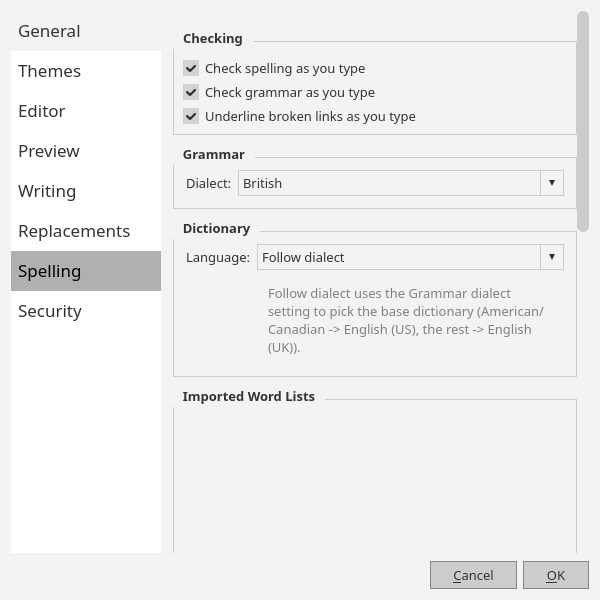
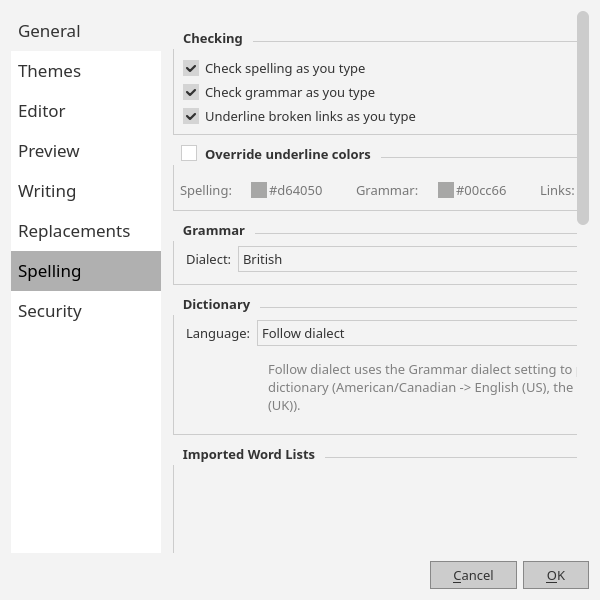
feat: colour swatches for spell check/grammar check/broken link check underlines

Changed region(s): [[0.3, 0.3, 0.99, 0.69], [0.3, 0.24, 0.63, 0.27], [0.3, 0.75, 0.54, 0.78]]

diff --git a/src/PreferencesDialog.cpp b/src/PreferencesDialog.cpp
@@ -889,6 +889,71 @@ void PreferencesDialog::setupUi(const QString &themeBgColor, const QString &them
 
         layout->addWidget(checkGroup);
 
+        QGroupBox *underlineGroup = new QGroupBox("Override underline colors");
+        underlineGroup->setCheckable(true);
+        underlineGroup->setChecked(settings.value(Preferences::UnderlineColorOverride, false).toBool());
+        auto *underlineLayout = new QHBoxLayout(underlineGroup);
+        underlineLayout->setContentsMargins(6, 18, 6, 6);
+
+        auto makeUnderlineSwatchBtn = [](const QString &hex) {
+            auto *btn = new QPushButton;
+            QPixmap px(16, 16);
+            px.fill(QColor(hex));
+            btn->setIcon(QIcon(px));
+            btn->setIconSize(QSize(16, 16));
+            btn->setText(hex);
+            btn->setCursor(Qt::PointingHandCursor);
+            return btn;
+        };
+
+        m_spellColorBtn = makeUnderlineSwatchBtn(
+            settings.value(Preferences::SpellUnderlineColor, "#d64050").toString());
+        m_grammarColorBtn = makeUnderlineSwatchBtn(
+            settings.value(Preferences::GrammarUnderlineColor, "#00cc66").toString());
+        m_linkColorBtn = makeUnderlineSwatchBtn(
+            settings.value(Preferences::LinkUnderlineColor, "#f09000").toString());
+
+        underlineLayout->addWidget(new QLabel("Spelling:"));
+        underlineLayout->addWidget(m_spellColorBtn);
+        underlineLayout->addSpacing(12);
+        underlineLayout->addWidget(new QLabel("Grammar:"));
+        underlineLayout->addWidget(m_grammarColorBtn);
+        underlineLayout->addSpacing(12);
+        underlineLayout->addWidget(new QLabel("Links:"));
+        underlineLayout->addWidget(m_linkColorBtn);
+        underlineLayout->addStretch();
+        layout->addWidget(underlineGroup);
+
+        auto emitUnderlineColorsChanged = [this]() { emit underlineColorsChanged(); };
+
+        auto connectUnderlineSwatch = [this, emitUnderlineColorsChanged](
+            QPushButton *btn, const char *key, const char *title) {
+            connect(btn, &QPushButton::clicked, this, [this, btn, key, title, emitUnderlineColorsChanged]() {
+                QColor current(btn->text());
+                QColor c = QColorDialog::getColor(current, this, QString::fromLatin1(title));
+                if (!c.isValid())
+                    return;
+                QSettings s;
+                s.setValue(QString::fromLatin1(key), c.name());
+                QPixmap px(16, 16);
+                px.fill(c);
+                btn->setIcon(QIcon(px));
+                btn->setText(c.name());
+                m_underlineColorGroup->setChecked(true);
+                emitUnderlineColorsChanged();
+            });
+        };
+        connectUnderlineSwatch(m_spellColorBtn, Preferences::SpellUnderlineColor, "Spelling Underline Color");
+        connectUnderlineSwatch(m_grammarColorBtn, Preferences::GrammarUnderlineColor, "Grammar Underline Color");
+        connectUnderlineSwatch(m_linkColorBtn, Preferences::LinkUnderlineColor, "Link Underline Color");
+
+        m_underlineColorGroup = underlineGroup;
+        connect(underlineGroup, &QGroupBox::toggled, this, [this, emitUnderlineColorsChanged]() {
+            QSettings s;
+            s.setValue(Preferences::UnderlineColorOverride, m_underlineColorGroup->isChecked());
+            emitUnderlineColorsChanged();
+        });
+
         QGroupBox *grammarGroup = new QGroupBox("Grammar");
         QFormLayout *grammarLayout = new QFormLayout(grammarGroup);
         grammarLayout->setContentsMargins(12, 12, 12, 12);
@@ -1277,6 +1342,10 @@ void PreferencesDialog::setupUi(const QString &themeBgColor, const QString &them
         settings.setValue(Preferences::SpellCheckEnabled, m_spellCheckCheck->isChecked());
         settings.setValue(Preferences::GrammarCheckEnabled, m_grammarCheckCheck->isChecked());
         settings.setValue(Preferences::LinkCheckEnabled, m_linkCheckCheck->isChecked());
+        settings.setValue(Preferences::UnderlineColorOverride, m_underlineColorGroup->isChecked());
+        settings.setValue(Preferences::SpellUnderlineColor, m_spellColorBtn->text());
+        settings.setValue(Preferences::GrammarUnderlineColor, m_grammarColorBtn->text());
+        settings.setValue(Preferences::LinkUnderlineColor, m_linkColorBtn->text());
         settings.setValue(Preferences::DictionaryLanguage, m_languageCombo->currentData().toString());
         settings.setValue(Preferences::GrammarDialect, m_grammarDialectCombo->currentText());
         QStringList customWords;

diff --git a/src/SpellHighlighter.cpp b/src/SpellHighlighter.cpp
@@ -14,6 +14,7 @@
 // along with this program.  If not, see <https://www.gnu.org/licenses/>.
 #include "SpellHighlighter.h"
 #include "LinkValidator.h"
+#include "Preferences.h"
 #include "SpellChecker.h"
 #include "StaticHelpers.h"
 #include <QColor>
@@ -22,6 +23,7 @@
 #include <QFile>
 #include <QFileInfo>
 #include <QRegularExpression>
+#include <QSettings>
 #include <QStringList>
 #include <QTextBlock>
 #include <QTextCharFormat>
@@ -30,6 +32,41 @@
 #include <QUrl>
 
 namespace {
+
+struct UnderlineColors {
+    QColor spell;
+    QColor grammar;
+    QColor link;
+};
+
+UnderlineColors loadUnderlineColors()
+{
+    // The current defaults when "Override underline colors" is off; stored
+    // values when it is on.
+    static const QColor spellDefault(0xd6, 0x40, 0x50);
+    static const QColor grammarDefault(0x00, 0xcc, 0x66);
+    static const QColor linkDefault(0xf0, 0x90, 0x00);
+    UnderlineColors c;
+    if (!QSettings().value(Preferences::UnderlineColorOverride, false).toBool()) {
+        c.spell = spellDefault;
+        c.grammar = grammarDefault;
+        c.link = linkDefault;
+        return c;
+    }
+    c.spell = QColor(QSettings().value(Preferences::SpellUnderlineColor,
+        spellDefault.name()).toString());
+    c.grammar = QColor(QSettings().value(Preferences::GrammarUnderlineColor,
+        grammarDefault.name()).toString());
+    c.link = QColor(QSettings().value(Preferences::LinkUnderlineColor,
+        linkDefault.name()).toString());
+    return c;
+}
+
+UnderlineColors &underlineColors()
+{
+    static UnderlineColors colors = loadUnderlineColors();
+    return colors;
+}
 
 QTextCharFormat spellFormat()
 {
@@ -90,17 +127,22 @@ BlockContext blockContext(int blockNumber, const QString &text, int previousStat
 
 QColor SpellHighlighter::spellUnderlineColor()
 {
-    return QColor(0xd6, 0x40, 0x50);
+    return underlineColors().spell;
 }
 
 QColor SpellHighlighter::grammarUnderlineColor()
 {
-    return QColor(0x00, 0xcc, 0x66);
+    return underlineColors().grammar;
 }
 
 QColor SpellHighlighter::linkUnderlineColor()
 {
-    return QColor(0xf0, 0x90, 0x00);
+    return underlineColors().link;
+}
+
+void SpellHighlighter::reloadUnderlineColors()
+{
+    underlineColors() = loadUnderlineColors();
 }
 
 QColor SpellHighlighter::spellHighlightColor()

diff --git a/tests/test_spell_highlighter.cpp b/tests/test_spell_highlighter.cpp
@@ -14,6 +14,7 @@
 // along with this program.  If not, see <https://www.gnu.org/licenses/>.
 #include <gtest/gtest.h>
 
+#include "Preferences.h"
 #include "SpellChecker.h"
 #include "SpellHighlighter.h"
 
@@ -436,6 +437,50 @@ TEST_F(SpellHighlighterSpellDebounceTest, CheckCompletionEmitsSignal)
     QTest::keyClicks(m_edit, "zzz");
     QTest::qWait(700);
     EXPECT_GT(spy.count(), 1);
+}
+
+class SpellHighlighterUnderlineColorTest : public ::testing::Test
+{
+protected:
+    void SetUp() override
+    {
+        QSettings().clear();
+        SpellHighlighter::reloadUnderlineColors();
+    }
+
+    void TearDown() override
+    {
+        QSettings().clear();
+        SpellHighlighter::reloadUnderlineColors();
+    }
+};
+
+TEST_F(SpellHighlighterUnderlineColorTest, DefaultsWhenOverrideOff)
+{
+    QSettings s;
+    s.setValue(Preferences::SpellUnderlineColor, "#123456");
+    s.setValue(Preferences::GrammarUnderlineColor, "#abcdef");
+    s.setValue(Preferences::LinkUnderlineColor, "#ff0000");
+    s.setValue(Preferences::UnderlineColorOverride, false);
+    SpellHighlighter::reloadUnderlineColors();
+
+    EXPECT_EQ(SpellHighlighter::spellUnderlineColor(), QColor(0xd6, 0x40, 0x50));
+    EXPECT_EQ(SpellHighlighter::grammarUnderlineColor(), QColor(0x00, 0xcc, 0x66));
+    EXPECT_EQ(SpellHighlighter::linkUnderlineColor(), QColor(0xf0, 0x90, 0x00));
+}
+
+TEST_F(SpellHighlighterUnderlineColorTest, OverridesAppliedWhenEnabled)
+{
+    QSettings s;
+    s.setValue(Preferences::SpellUnderlineColor, "#123456");
+    s.setValue(Preferences::GrammarUnderlineColor, "#abcdef");
+    s.setValue(Preferences::LinkUnderlineColor, "#ff0000");
+    s.setValue(Preferences::UnderlineColorOverride, true);
+    SpellHighlighter::reloadUnderlineColors();
+
+    EXPECT_EQ(SpellHighlighter::spellUnderlineColor(), QColor("#123456"));
+    EXPECT_EQ(SpellHighlighter::grammarUnderlineColor(), QColor("#abcdef"));
+    EXPECT_EQ(SpellHighlighter::linkUnderlineColor(), QColor("#ff0000"));
 }
 
 } // namespace

diff --git a/src/Editor.cpp b/src/Editor.cpp
@@ -1229,6 +1229,7 @@ void Editor::applySpellSettings()
 {
     if (!m_spellChecker || !m_spellHighlighter)
         return;
+    SpellHighlighter::reloadUnderlineColors();
     QSettings s;
     const bool spellEnabled = s.value(Preferences::SpellCheckEnabled, true).toBool();
     const bool grammarEnabled = s.value(Preferences::GrammarCheckEnabled, false).toBool();
@@ -1267,6 +1268,13 @@ void Editor::applySpellSettings()
 void Editor::recheckSpelling()
 {
     applySpellSettings();
+}
+
+void Editor::refreshUnderlines()
+{
+    SpellHighlighter::reloadUnderlineColors();
+    if (m_underlineOverlay)
+        m_underlineOverlay->update();
 }
 
 void Editor::setSpellCheckHighlight(int blockNumber, int start, int length)

diff --git a/src/Preferences.h b/src/Preferences.h
@@ -83,6 +83,10 @@ namespace Preferences {
     constexpr const char *LinkCheckEnabled = "linkCheckEnabled";
     constexpr const char *DictionaryLanguage = "dictionaryLanguage";
     constexpr const char *GrammarDialect = "grammarDialect";
+    constexpr const char *UnderlineColorOverride = "underlineColorOverride";
+    constexpr const char *SpellUnderlineColor = "spellUnderlineColor";
+    constexpr const char *GrammarUnderlineColor = "grammarUnderlineColor";
+    constexpr const char *LinkUnderlineColor = "linkUnderlineColor";
 
     constexpr const char *StripPreviewScripts = "stripPreviewScripts";
     constexpr const char *StripExportScripts = "stripExportScripts";

diff --git a/src/PreferencesDialog.h b/src/PreferencesDialog.h
@@ -45,6 +45,7 @@ signals:
     void stylesheetChanged();
     void editorSettingsChanged(const QString &fontFamily, int fontSize, int lineHeight, int padding, int caretWidth);
     void uiFontSizeChanged(int uiFontSizePt);
+    void underlineColorsChanged();
 
 private slots:
     void addStylesheet();
@@ -143,5 +144,9 @@ private:
     QListWidget *m_customWordsList;
     QListWidget *m_importedList;
     QListWidget *m_ignoredWordsList;
+    QGroupBox *m_underlineColorGroup;
+    QPushButton *m_spellColorBtn;
+    QPushButton *m_grammarColorBtn;
+    QPushButton *m_linkColorBtn;
 };
 

diff --git a/src/Editor.h b/src/Editor.h
@@ -47,6 +47,10 @@ public:
     void setInsertActions(const QList<QAction *> &actions);
     void setMermaidAction(QAction *action);
     void recheckSpelling();
+    // Reloads the underline colors from settings and repaints the squiggle
+    // overlay. Call after a preference change that doesn't need a full
+    // re-check (e.g. the underline color swatches).
+    void refreshUnderlines();
 
     SpellChecker *spellChecker() const { return m_spellChecker.get(); }
     SpellHighlighter *spellHighlighter() const { return m_spellHighlighter; }

diff --git a/src/MainWindow.cpp b/src/MainWindow.cpp
@@ -1318,6 +1318,12 @@ void MainWindow::showPreferences()
         });
     connect(&dlg, &PreferencesDialog::uiFontSizeChanged, this,
         [this](int) { refreshPreviewCss(); });
+    connect(&dlg, &PreferencesDialog::underlineColorsChanged, this,
+        [this]() {
+            for (const auto &tab : m_tabs)
+                if (tab.editor)
+                    tab.editor->refreshUnderlines();
+        });
     QSettings s;
     if (dlg.exec() == QDialog::Accepted) {
         applyStyleSheetToAllEditors();

diff --git a/src/SpellHighlighter.h b/src/SpellHighlighter.h
@@ -103,6 +103,9 @@ public:
     static QColor spellUnderlineColor();
     static QColor grammarUnderlineColor();
     static QColor linkUnderlineColor();
+    // Re-reads the underline colors from settings (called after a preference
+    // change; also resets the cache in tests).
+    static void reloadUnderlineColors();
     // Background highlight used by the Check Spelling dialog to point at the
     // current error.
     static QColor spellHighlightColor();
